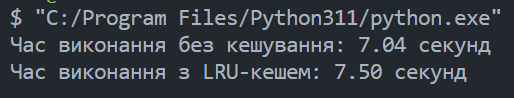
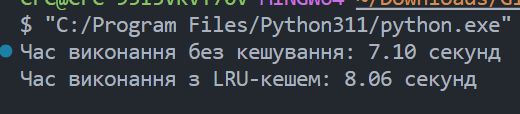
add task2

diff --git a/part2.py b/part2.py
@@ -2,15 +2,15 @@ import timeit
 import functools
 import matplotlib.pyplot as plt
 import numpy as np
-import pandas as pd
-import ace_tools
+from tabulate import tabulate
 
-# Реалізація Fibonacci з LRU Cache
+
 @functools.lru_cache(maxsize=None)
 def fibonacci_lru(n):
     if n < 2:
         return n
     return fibonacci_lru(n - 1) + fibonacci_lru(n - 2)
+
 
 # Реалізація Splay Tree
 class SplayTreeNode:
@@ -19,6 +19,7 @@ class SplayTreeNode:
         self.value = value
         self.left = None
         self.right = None
+
 
 class SplayTree:
     def __init__(self):
@@ -96,6 +97,7 @@ class SplayTree:
             return self.root.value
         return None
 
+
 def fibonacci_splay(n, tree):
     if n < 2:
         return n
@@ -108,12 +110,12 @@ def fibonacci_splay(n, tree):
     tree.insert(n, result)
     return result
 
-# Підготовка тестових значень
+
 n_values = list(range(0, 951, 50))
 lru_times = []
 splay_times = []
 
-# Вимірювання часу виконання
+
 for n in n_values:
     # LRU Cache
     lru_time = timeit.timeit(lambda: fibonacci_lru(n), number=10) / 10
@@ -124,10 +126,10 @@ for n in n_values:
     splay_time = timeit.timeit(lambda: fibonacci_splay(n, splay_tree), number=10) / 10
     splay_times.append(splay_time)
 
-# Побудова графіка
+
 plt.figure(figsize=(10, 6))
-plt.plot(n_values, lru_times, marker='o', label="LRU Cache")
-plt.plot(n_values, splay_times, marker='s', label="Splay Tree")
+plt.plot(n_values, lru_times, marker="o", label="LRU Cache")
+plt.plot(n_values, splay_times, marker="s", label="Splay Tree")
 plt.xlabel("n (номер числа Фібоначчі)")
 plt.ylabel("Середній час виконання (секунди)")
 plt.title("Порівняння часу виконання LRU Cache та Splay Tree")
@@ -135,6 +137,13 @@ plt.legend()
 plt.grid()
 plt.show()
 
-# Виведення таблиці
-df = pd.DataFrame({"n": n_values, "LRU Cache (секунди)": lru_times, "Splay Tree (секунди)": splay_times})
-ace_tools.display_dataframe_to_user(name="Порівняльна таблиця часу виконання", dataframe=df)
+
+formatted_table = tabulate(
+    [
+        [n, f"{lru:.8f}", f"{splay:.8f}"]
+        for n, lru, splay in zip(n_values, lru_times, splay_times)
+    ],
+    headers=["n", "LRU Cache Time (s)", "Splay Tree Time (s)"],
+    tablefmt="pretty",
+)
+print(formatted_table)

diff --git a/part1.py b/part1.py
@@ -3,8 +3,10 @@ import time
 from functools import lru_cache
 from collections import OrderedDict
 
+
 class LRUCache:
     """LRU Cache implementation with a fixed size."""
+
     def __init__(self, capacity: int):
         self.cache = OrderedDict()
         self.capacity = capacity
@@ -30,30 +32,34 @@ class LRUCache:
         for key in keys_to_delete:
             del self.cache[key]
 
+
 # Functions without caching
 def range_sum_no_cache(array, L, R):
-    return sum(array[L:R+1])
+    return sum(array[L : R + 1])
+
 
 def update_no_cache(array, index, value):
     array[index] = value
 
-# Functions with LRU cache
+
 cache = LRUCache(1000)
+
 
 def range_sum_with_cache(array, L, R):
     key = (L, R)
     cached_result = cache.get(key)
     if cached_result is not None:
         return cached_result
-    result = sum(array[L:R+1])
+    result = sum(array[L : R + 1])
     cache.put(key, result)
     return result
+
 
 def update_with_cache(array, index, value):
     array[index] = value
     cache.invalidate(index)
 
-# Generate test data
+
 N = 100_000
 Q = 50_000
 array = [random.randint(1, 1000) for _ in range(N)]
@@ -62,31 +68,29 @@ for _ in range(Q):
     if random.random() < 0.7:  # 70% chance of Range query, 30% Update query
         L = random.randint(0, N - 1)
         R = random.randint(L, N - 1)
-        queries.append(('Range', L, R))
+        queries.append(("Range", L, R))
     else:
         index = random.randint(0, N - 1)
         value = random.randint(1, 1000)
-        queries.append(('Update', index, value))
+        queries.append(("Update", index, value))
 
-# Benchmark without caching
 start_time = time.time()
 for query in queries:
-    if query[0] == 'Range':
+    if query[0] == "Range":
         range_sum_no_cache(array, query[1], query[2])
     else:
         update_no_cache(array, query[1], query[2])
 time_no_cache = time.time() - start_time
 
-# Benchmark with caching
 cache = LRUCache(1000)  # Reset cache
 start_time = time.time()
 for query in queries:
-    if query[0] == 'Range':
+    if query[0] == "Range":
         range_sum_with_cache(array, query[1], query[2])
     else:
         update_with_cache(array, query[1], query[2])
 time_with_cache = time.time() - start_time
 
-# Output results
+
 print(f"Час виконання без кешування: {time_no_cache:.2f} секунд")
 print(f"Час виконання з LRU-кешем: {time_with_cache:.2f} секунд")

diff --git a/README.md b/README.md
@@ -5,8 +5,8 @@
 ## Завдання 1
 
 ## Результати тестування
-- **Час виконання без кешування:** 7.04 секунд
-- **Час виконання з LRU-кешем:** 7.5 секунд
+- **Час виконання без кешування:** 7.10 секунд
+- **Час виконання з LRU-кешем:** 8.06 секунд
 
 ## Чому кешування не покращило швидкість?
 1. **Мала ймовірність повторення однакових запитів**  
@@ -31,4 +31,16 @@
 - **Модифікація кешування**  
   - Зберігати часткові результати для підвідрізків, а не повні `Range`-запити.
 
+
 ## Завдання 2
+
+1. **Метод LRU Cache значно швидший** за Splay Tree для великих значень \( n \), оскільки використовує вбудоване кешування, що дозволяє уникнути зайвих рекурсивних викликів.
+
+2. **Splay Tree вимагає додаткових операцій** для балансування дерева, що збільшує час виконання. Це робить його менш ефективним у порівнянні з LRU Cache.
+
+3. **Для малих значень \( n \)** (до 200) час виконання обох методів є подібним, проте **для великих значень \( n \) LRU Cache є набагато ефективнішим**.
+
+4. **Splay Tree може бути корисним** у випадках, коли кеш має бути керованим структурно, наприклад, у сценаріях з обмеженою пам’яттю або динамічним керуванням кешем.
+
+### Підсумок:
+Якщо **потрібно швидке обчислення чисел Фібоначчі**, **LRU Cache є кращим вибором**.
